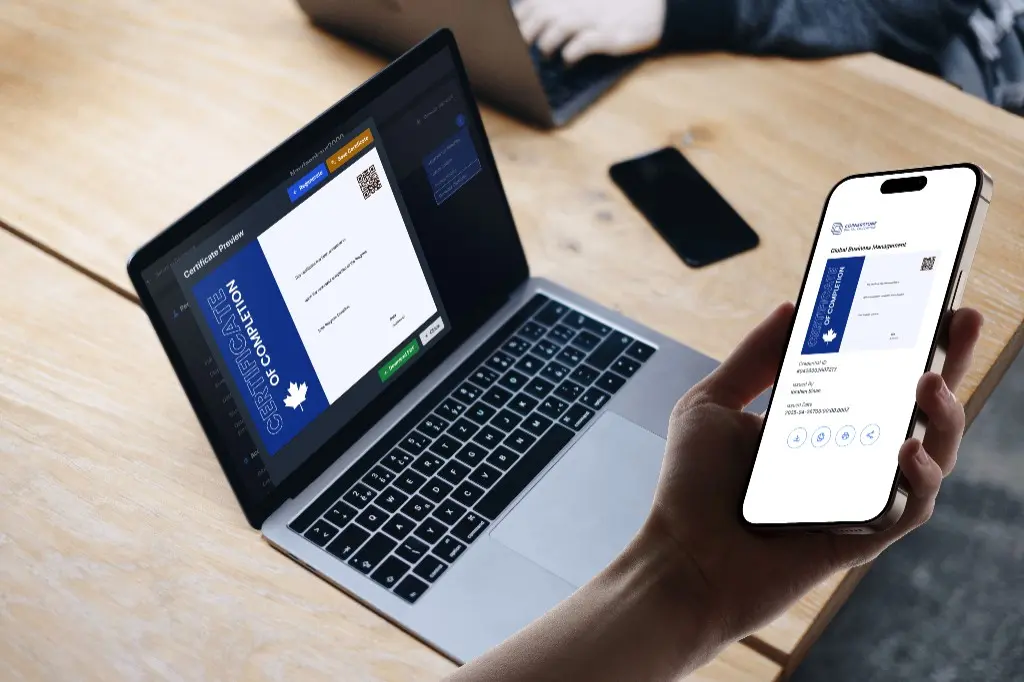
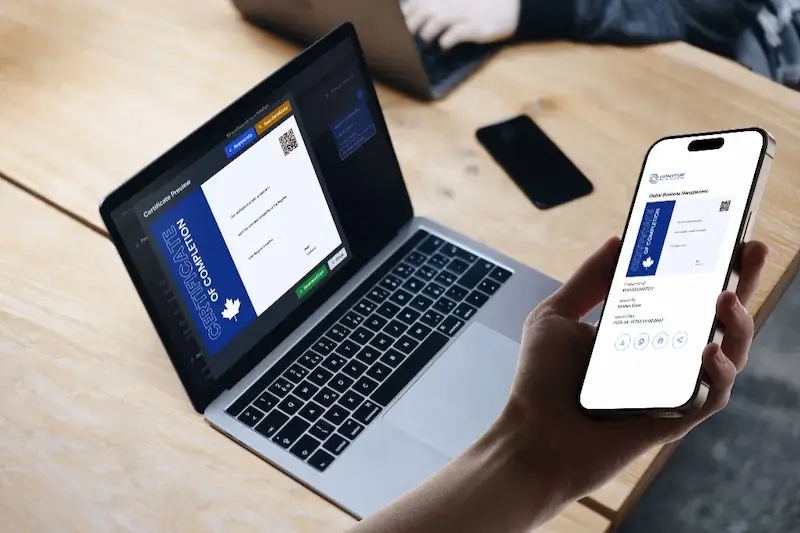
update: changed image file height and width for lcp

diff --git a/src/pages/ProjectDetailPage.tsx b/src/pages/ProjectDetailPage.tsx
@@ -247,7 +247,8 @@ function ProjectDetailPage({ colors }: ProjectDetailPageProps) {
                   alt={`${project.title} overview`}
                   width={800}
                   height={450}
-                  loading="lazy"
+                  loading="eager"
+                  fetchPriority="high"
                   decoding="async"
                   className="w-full h-full object-cover rounded-lg"
                 />
@@ -430,17 +431,19 @@ function ProjectDetailPage({ colors }: ProjectDetailPageProps) {
                               onClick={() => setModalImage(project.sections![slug].image!)}
                               className="block w-full text-left cursor-pointer focus:outline-none focus-visible:ring-2 focus-visible:ring-offset-2 focus-visible:ring-white rounded-lg"
                             >
-                              <AssetImage
-                                src={project.sections[slug].image}
-                                alt={((project.sections[slug] as SectionContent).imageTitle) || 'Section image'}
-                                width={800}
-                                height={450}
-                                loading="lazy"
-                                decoding="async"
-                                className="rounded-lg hover:opacity-90 transition-opacity"
-                                style={getImageStyle(project.sections[slug].image!)}
-                                onLoad={handleImageLoad}
-                              />
+                              <div className="w-full max-w-3xl rounded-lg overflow-hidden bg-neutral-200 dark:bg-neutral-700" style={{ aspectRatio: '800/450' }}>
+                                <AssetImage
+                                  src={project.sections[slug].image}
+                                  alt={((project.sections[slug] as SectionContent).imageTitle) || 'Section image'}
+                                  width={800}
+                                  height={450}
+                                  loading="lazy"
+                                  decoding="async"
+                                  className="w-full h-full object-cover rounded-lg hover:opacity-90 transition-opacity"
+                                  style={getImageStyle(project.sections[slug].image!)}
+                                  onLoad={handleImageLoad}
+                                />
+                              </div>
                             </button>
                           </div>
                         )}
@@ -456,17 +459,22 @@ function ProjectDetailPage({ colors }: ProjectDetailPageProps) {
                               onClick={() => setModalImage(project.sections![slug].imageBelowFirst!)}
                               className="block w-full text-left cursor-pointer focus:outline-none focus-visible:ring-2 focus-visible:ring-offset-2 focus-visible:ring-white rounded-lg"
                             >
-                              <AssetImage
-                                src={project.sections[slug].imageBelowFirst}
-                                alt={((project.sections[slug] as SectionContent).imageBelowFirstTitle) || 'Section image'}
-                                width={800}
-                                height={450}
-                                loading="lazy"
-                                decoding="async"
-                                className="rounded-lg hover:opacity-90 transition-opacity"
-                                style={getImageStyle(project.sections[slug].imageBelowFirst!)}
-                                onLoad={handleImageLoad}
-                              />
+                              <div
+                                className="w-full max-w-3xl rounded-lg overflow-hidden bg-neutral-200 dark:bg-neutral-700"
+                                style={{ aspectRatio: project.sections[slug].imageBelowFirst?.includes('certificate-flowchart') ? '800/429' : '800/450' }}
+                              >
+                                <AssetImage
+                                  src={project.sections[slug].imageBelowFirst}
+                                  alt={((project.sections[slug] as SectionContent).imageBelowFirstTitle) || 'Section image'}
+                                  width={800}
+                                  height={project.sections[slug].imageBelowFirst?.includes('certificate-flowchart') ? 429 : 450}
+                                  loading="lazy"
+                                  decoding="async"
+                                  className="w-full h-full object-cover rounded-lg hover:opacity-90 transition-opacity"
+                                  style={getImageStyle(project.sections[slug].imageBelowFirst!)}
+                                  onLoad={handleImageLoad}
+                                />
+                              </div>
                             </button>
                           </div>
                         )}

diff --git a/scripts/optimize-images.js b/scripts/optimize-images.js
@@ -25,7 +25,7 @@ async function main() {
     const input = join(assetsDir, file)
     const out = join(assetsDir, file.replace(/\.png$/i, '.webp'))
     const isIcon = /-icon\.png$/i.test(file)
-    const isHeroOrPreview = /-hero\.png$/i.test(file) || /-preview\.png$/i.test(file)
+    const isHeroOrPreviewOrFlowchart = /-hero\.png$/i.test(file) || /-preview\.png$/i.test(file) || /-flowchart\.png$/i.test(file)
 
     try {
       let pipeline = sharp(input)
@@ -35,8 +35,8 @@ async function main() {
 
       if (isIcon && (w > 128 || h > 128)) {
         pipeline = pipeline.resize(128, 128, { fit: 'inside', withoutEnlargement: true })
-      } else if ((isHeroOrPreview || w > 1200 || h > 1200) && !isIcon) {
-        const maxW = isHeroOrPreview ? 800 : 1200
+      } else if ((isHeroOrPreviewOrFlowchart || w > 1200 || h > 1200) && !isIcon) {
+        const maxW = isHeroOrPreviewOrFlowchart ? 800 : 1200
         if (w > maxW || h > maxW) {
           pipeline = pipeline.resize(maxW, null, { fit: 'inside', withoutEnlargement: true })
         }
